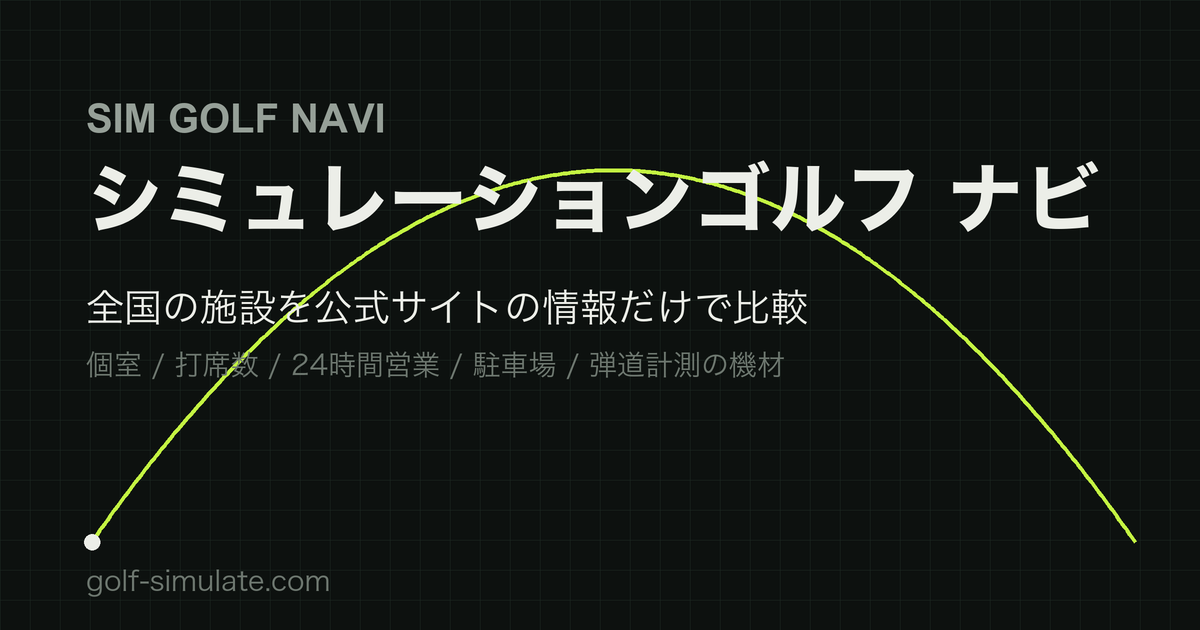
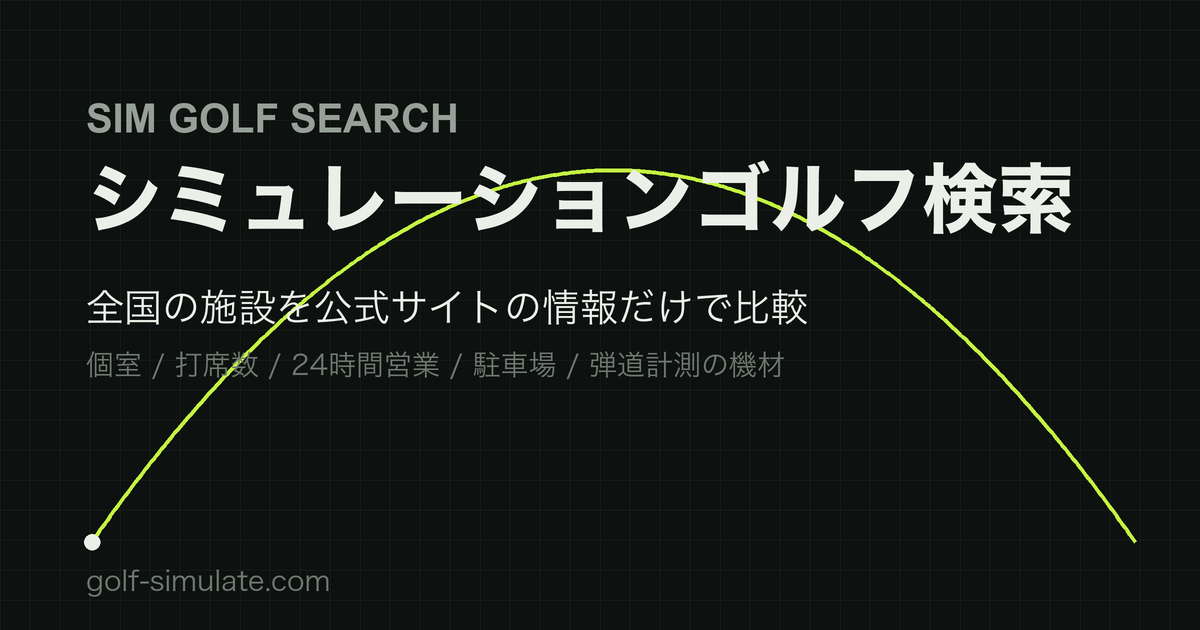
サイト名を SIM GOLF SEARCH に（MediaXAI指定）・OG画像を作り直し

Changed region(s): [[0.7708, 0.2413, 0.925, 0.3921], [0.2467, 0.1508, 0.4008, 0.2111]]

diff --git a/lib/meta.ts b/lib/meta.ts
@@ -4,7 +4,7 @@ import { SITE } from './data'
 // ⚠ OG画像を差し替えたら v= を必ず上げる。/og-image.png は _headers で7日キャッシュさせており、
 //    同じURLのままだと Cloudflare のエッジに古い画像が残る（2026-10-02、差し替え後も
 //    独自ドメインだけ旧画像が返った。pages.dev は新しくなるので気づきにくい）。
-export const OG_IMAGE = '/og-image.png?v=20261002'
+export const OG_IMAGE = '/og-image.png?v=20261016'
 
 /**
  * OGP の共通値（layout.tsx と各ページで共用）。

diff --git a/app/layout.tsx b/app/layout.tsx
@@ -40,8 +40,8 @@ export default function RootLayout({ children }: { children: React.ReactNode }) 
         <header className="site">
           <div className="inner">
             <Link href="/" className="logo">
-              SIM GOLF NAVI
-              <em>シミュレーションゴルフ ナビ</em>
+              SIM GOLF SEARCH
+              <em>シミュレーションゴルフ検索</em>
             </Link>
             <nav>
               <Link href="/area/">エリアから探す</Link>

diff --git a/lib/data.ts b/lib/data.ts
@@ -48,7 +48,7 @@ export const FACILITIES: Facility[] = (raw as { facilities: Facility[] }).facili
 export const GENERATED_AT: string = (raw as { generated_at: string }).generated_at
 
 export const SITE = {
-  name: 'シミュレーションゴルフ ナビ',
+  name: 'SIM GOLF SEARCH',
   // ⚠ ドメイン確定後にここだけ差し替える。canonical・sitemap・構造化データが全てここを見る。
   origin: 'https://golf-simulate.com',
   description:

diff --git a/scripts/make-og.py b/scripts/make-og.py
@@ -46,8 +46,8 @@ def main() -> None:
     def put(xy, s, font, size, fill):
         d.text((xy[0] * S, xy[1] * S), s, font=ImageFont.truetype(font, size * S), fill=fill)
 
-    put((86, 96), "SIM GOLF NAVI", EN_BOLD, 40, DIM)
-    put((86, 160), "シミュレーションゴルフ ナビ", JP_BOLD, 76, INK)
+    put((86, 96), "SIM GOLF SEARCH", EN_BOLD, 40, DIM)
+    put((86, 160), "シミュレーションゴルフ検索", JP_BOLD, 76, INK)
     put((86, 288), "全国の施設を公式サイトの情報だけで比較", JP, 38, INK)
     put((86, 350), "個室 / 打席数 / 24時間営業 / 駐車場 / 弾道計測の機材", JP, 28, FAINT)
     put((86, 566), "golf-simulate.com", JP, 28, FAINT)
